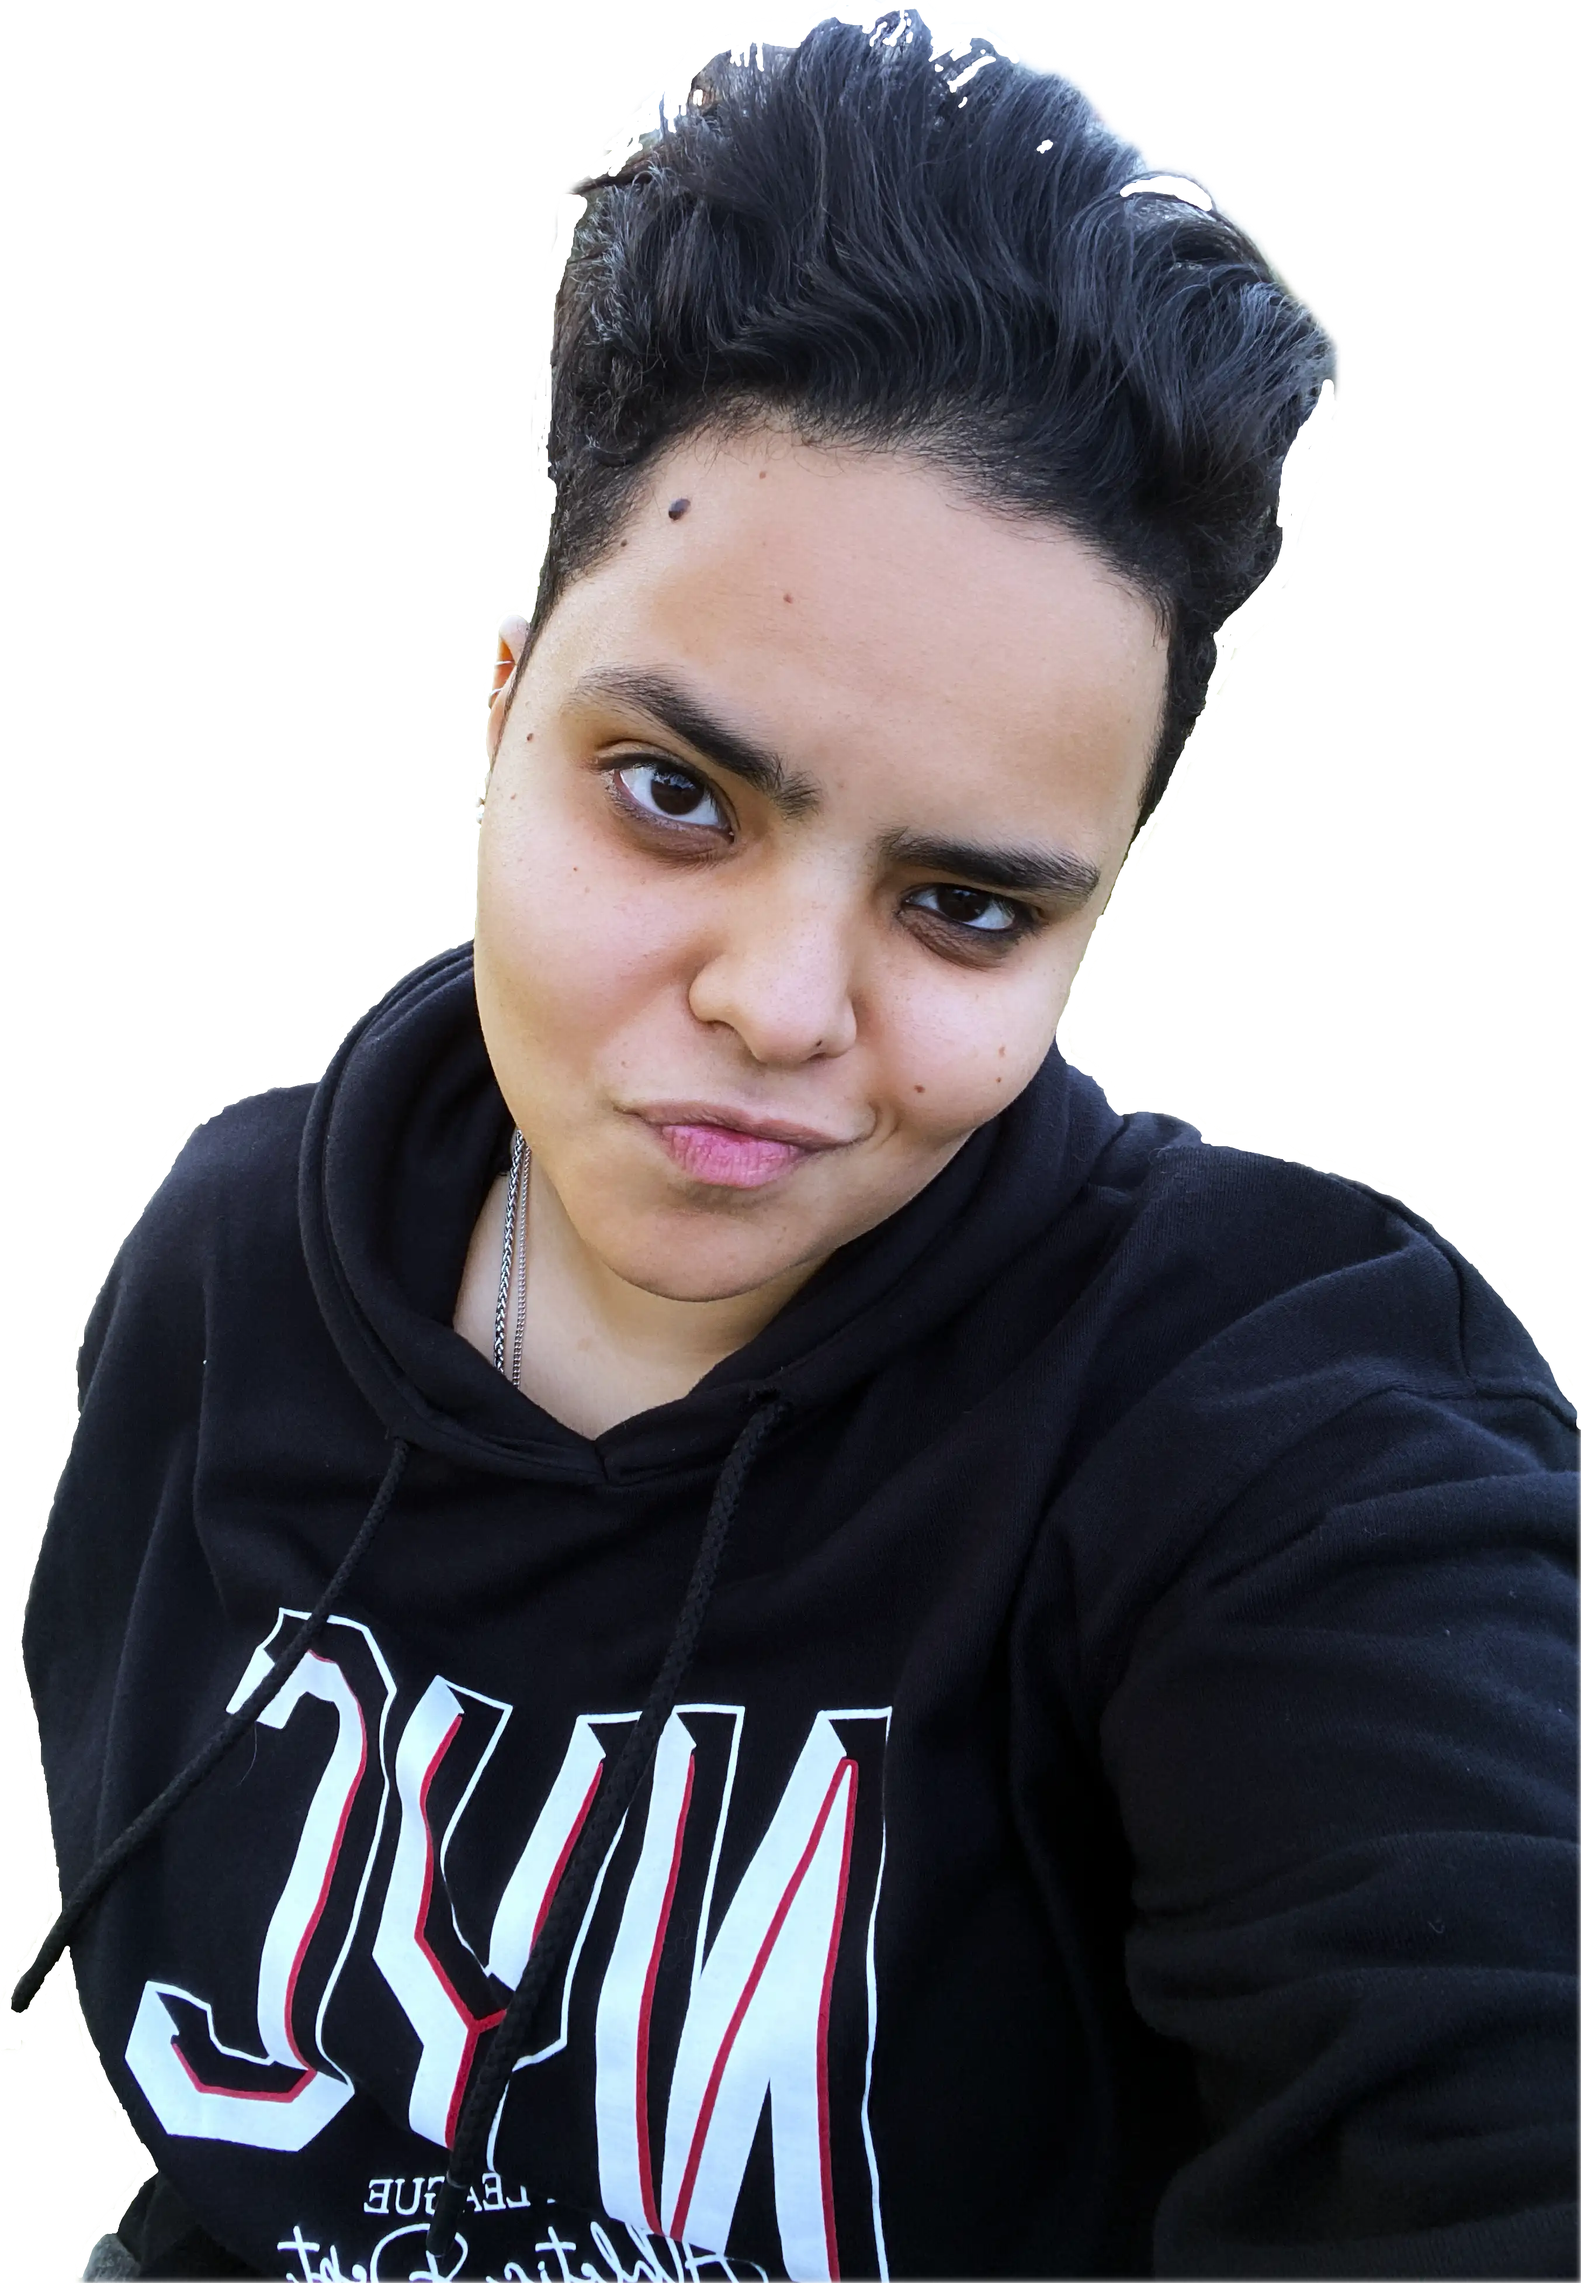
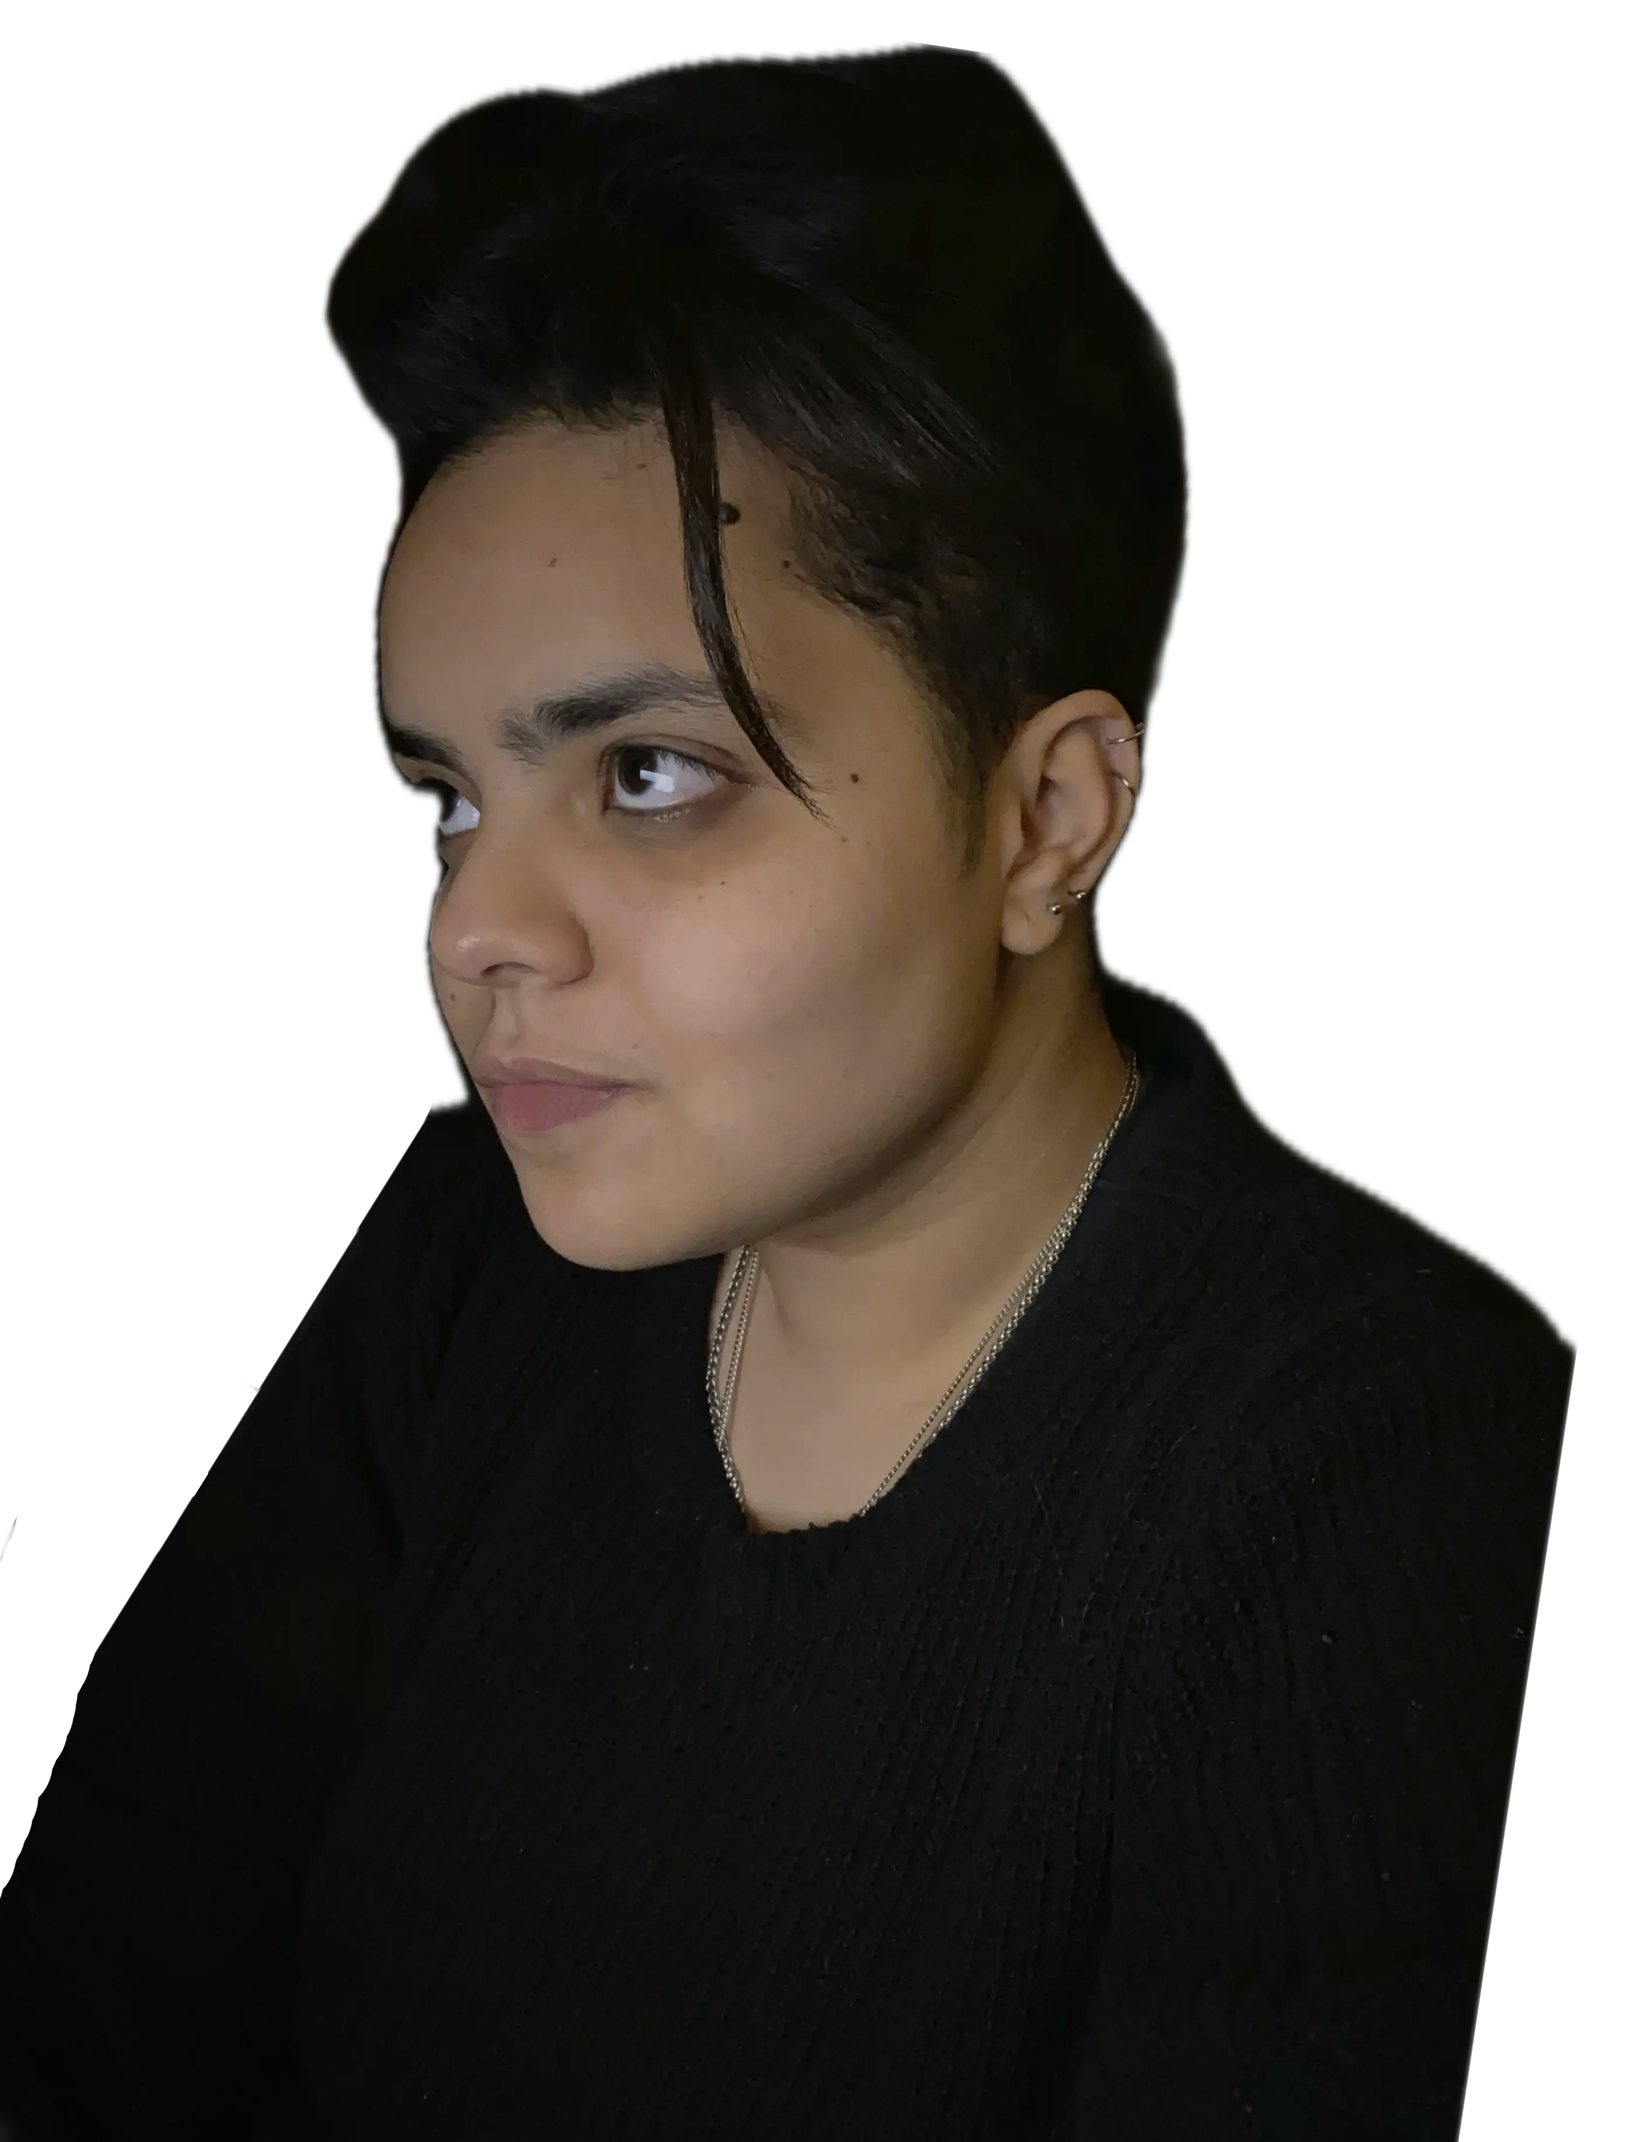
New pic, better component naming

diff --git a/src/app/ui/components/picture.tsx b/src/app/ui/components/picture.tsx
@@ -13,7 +13,7 @@ export function Picture() {
       transition={{ duration: 1.0, ease: "easeOut" }}
       className="relative w-9/12 lg:w-full h-full rounded-2xl overflow-hidden bg-transparent"
     >
-      <div className="absolute w-full h-full bg-[radial-gradient(ellipse_60%_55%_at_50%_50%,transparent_40%,#0a0a0a_80%)]"></div>
+      <div className="absolute w-full h-full bg-[radial-gradient(ellipse_50%_55%_at_50%_35%,transparent_60%,#0a0a0a_80%)]"></div>
       <Image
         src={yara}
         alt="Yara"

diff --git a/src/app/ui/components/compact/hero.tsx b/src/app/ui/components/compact/hero.tsx
@@ -1,6 +1,6 @@
 import { Picture } from "../picture";
 import { motion } from "framer-motion";
-export default function Header() {
+export default function Hero() {
   return (
     <section
       className="relative flex flex-col items-center container"

diff --git a/src/app/ui/components/expanded/hero.tsx b/src/app/ui/components/expanded/hero.tsx
@@ -1,6 +1,6 @@
 import { Picture } from "../picture";
 import { motion } from "framer-motion";
-export default function Header() {
+export default function Hero() {
   return (
     <section
       className="relative flex flex-col items-center container"

diff --git a/src/app/ui/components/compact/compactlayout.tsx b/src/app/ui/components/compact/compactlayout.tsx
@@ -1,5 +1,5 @@
 import { motion } from "framer-motion";
-import Header from "./header";
+import Header from "./hero";
 import Journey from "../journey";
 import { Builds } from "../builds";
 import { Contact } from "../contact";

diff --git a/src/app/ui/components/expanded/expandedlayout.tsx b/src/app/ui/components/expanded/expandedlayout.tsx
@@ -1,5 +1,5 @@
 "use client";
-import Header from "./header";
+import Header from "./hero";
 import Journey from "../journey";
 import { Builds } from "../builds";
 import { Contact } from "../contact";
